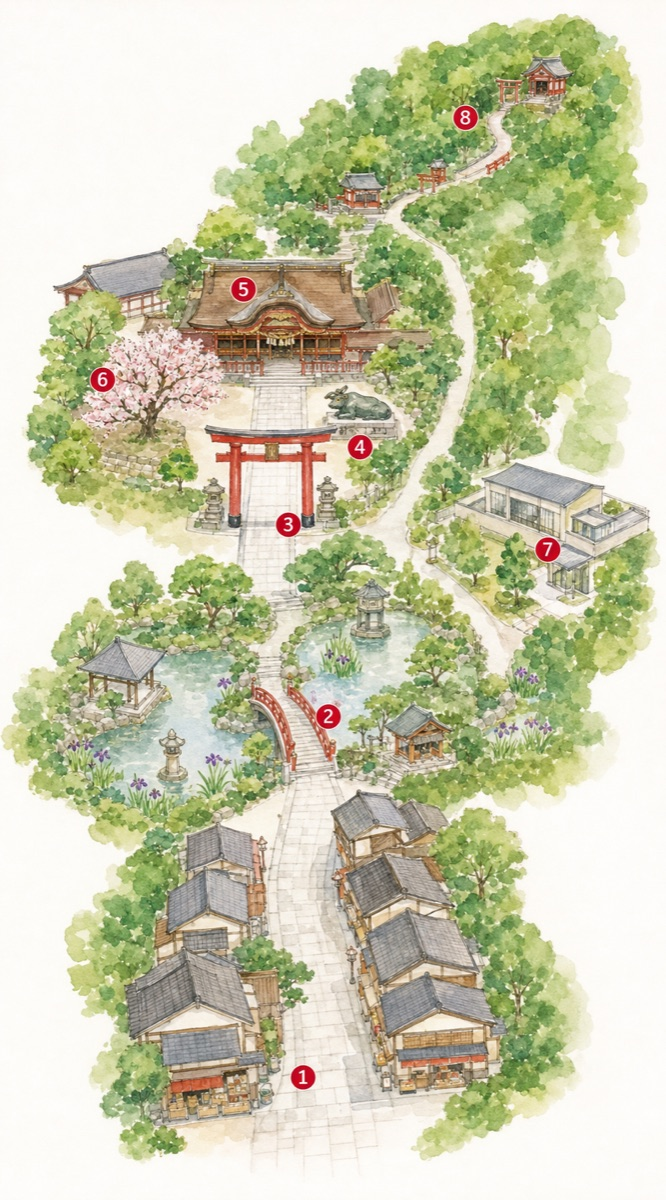
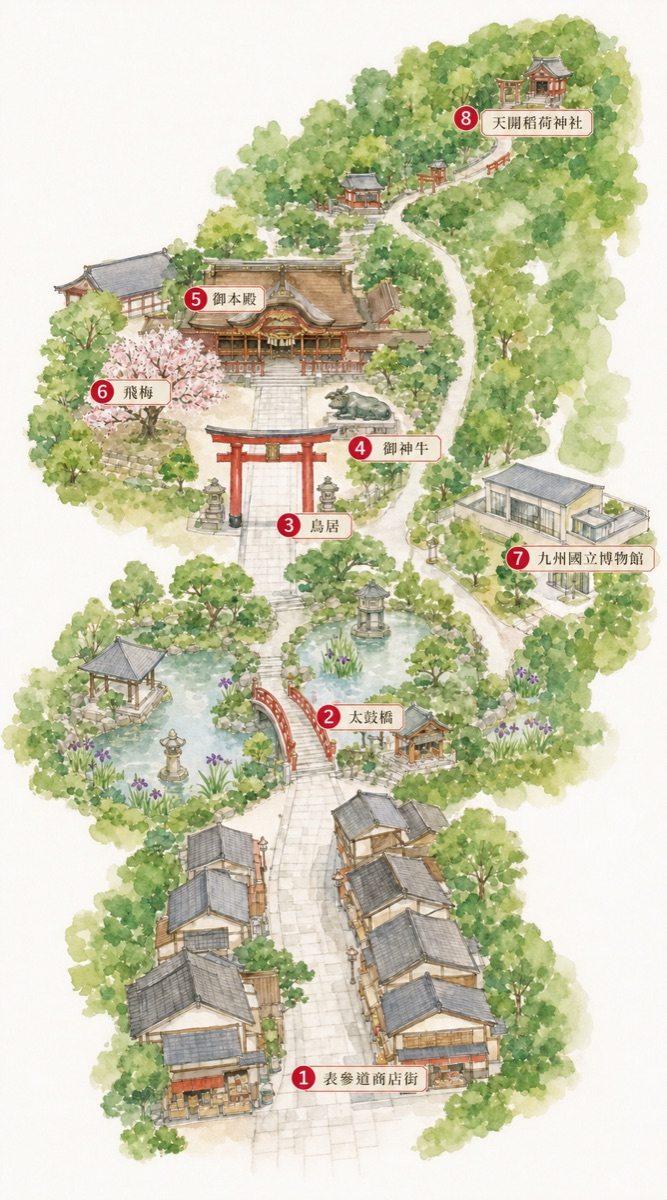
v13.10: 太宰府大區導覽 — 繁中標籤上圖 + 資深導遊遊記式長敘事
- gpt-image-2 成功生出繁體中文地名標籤(表參道/太鼓橋/御神牛等 8 點全對)、直接畫在插畫地圖上
- 介紹改成 5 段導遊/遊記式長敘事(逛吃玩動線季節長輩融入、不用制式欄位標籤)
- 編號圖例降為底部 Maps 索引

diff --git a/fukuoka/areas.html b/fukuoka/areas.html
@@ -280,32 +280,32 @@ a:focus-visible,summary:focus-visible,button:focus-visible{outline:2px solid var
       <img src="img/area_dazaifu.jpg" alt="太宰府區域插畫導覽地圖">
       <figcaption class="mapcredit">插畫地圖 · AI 生成(gpt-image)· 僅供本行程導覽</figcaption>
     </figure>
-    <ul class="legend">
-      
-      <li class="lg"><span class="no">1</span><div><span class="lgn">表参道商店街</span> <a class="mapmini" href="https://www.google.com/maps/search/?api=1&query=%E5%A4%AA%E5%AE%B0%E5%BA%9C%20%E8%A1%A8%E5%8F%82%E9%81%93%E5%95%86%E5%BA%97%E8%A1%97" target="_blank" rel="noopener"><svg class="ic"><use href="#i-pin"/></svg>Maps</a><div class="lgd">梅枝餅・隈研吾星巴克・合格ラーメン一蘭,全在這條石板街上</div></div></li>
-      
-      <li class="lg"><span class="no">2</span><div><span class="lgn">太鼓橋・心字池</span> <a class="mapmini" href="https://www.google.com/maps/search/?api=1&query=%E5%A4%AA%E5%AE%B0%E5%BA%9C%20%E5%A4%AA%E9%BC%93%E6%A9%8B%E3%83%BB%E5%BF%83%E5%AD%97%E6%B1%A0" target="_blank" rel="noopener"><svg class="ic"><use href="#i-pin"/></svg>Maps</a><div class="lgd">過去/現在/未來三座紅橋,池畔菖蒲</div></div></li>
-      
-      <li class="lg"><span class="no">3</span><div><span class="lgn">鳥居</span> <a class="mapmini" href="https://www.google.com/maps/search/?api=1&query=%E5%A4%AA%E5%AE%B0%E5%BA%9C%20%E9%B3%A5%E5%B1%85" target="_blank" rel="noopener"><svg class="ic"><use href="#i-pin"/></svg>Maps</a><div class="lgd">參道入口、進入神域的門</div></div></li>
-      
-      <li class="lg"><span class="no">4</span><div><span class="lgn">御神牛</span> <a class="mapmini" href="https://www.google.com/maps/search/?api=1&query=%E5%A4%AA%E5%AE%B0%E5%BA%9C%20%E5%BE%A1%E7%A5%9E%E7%89%9B" target="_blank" rel="noopener"><svg class="ic"><use href="#i-pin"/></svg>Maps</a><div class="lgd">摸牛頭增智慧、學問成就</div></div></li>
-      
-      <li class="lg"><span class="no">5</span><div><span class="lgn">御本殿</span> <a class="mapmini" href="https://www.google.com/maps/search/?api=1&query=%E5%A4%AA%E5%AE%B0%E5%BA%9C%20%E5%BE%A1%E6%9C%AC%E6%AE%BF" target="_blank" rel="noopener"><svg class="ic"><use href="#i-pin"/></svg>Maps</a><div class="lgd">令和大改修中、2026/9 恢復;過渡動線照常參拜</div></div></li>
-      
-      <li class="lg"><span class="no">6</span><div><span class="lgn">飛梅</span> <a class="mapmini" href="https://www.google.com/maps/search/?api=1&query=%E5%A4%AA%E5%AE%B0%E5%BA%9C%20%E9%A3%9B%E6%A2%85" target="_blank" rel="noopener"><svg class="ic"><use href="#i-pin"/></svg>Maps</a><div class="lgd">樹齡逾千年的神木、太宰府象徵</div></div></li>
-      
-      <li class="lg"><span class="no">7</span><div><span class="lgn">九州國立博物館</span> <a class="mapmini" href="https://www.google.com/maps/search/?api=1&query=%E5%A4%AA%E5%AE%B0%E5%BA%9C%20%E4%B9%9D%E5%B7%9E%E5%9C%8B%E7%AB%8B%E5%8D%9A%E7%89%A9%E9%A4%A8" target="_blank" rel="noopener"><svg class="ic"><use href="#i-pin"/></svg>Maps</a><div class="lgd">彩虹隧道電扶梯直達、全冷氣、雨天避暑備案</div></div></li>
-      
-      <li class="lg"><span class="no">8</span><div><span class="lgn">天開稲荷神社</span> <a class="mapmini" href="https://www.google.com/maps/search/?api=1&query=%E5%A4%AA%E5%AE%B0%E5%BA%9C%20%E5%A4%A9%E9%96%8B%E7%A8%B2%E8%8D%B7%E7%A5%9E%E7%A4%BE" target="_blank" rel="noopener"><svg class="ic"><use href="#i-pin"/></svg>Maps</a><div class="lgd">境內後山小社;鬼滅聖地竈門神社需另搭巴士約 10 分</div></div></li>
-      
-    </ul>
-    <p class="story">一出<b>西鐵太宰府站</b>,表参道就在眼前 — 不長的一條石板街,兩側是現烤梅枝餅的甜香、隈研吾用兩千根杉木蓋的星巴克、和全世界唯一的<b>合格祈願拉麵</b>。順著人流往上,過了心字池上的紅色<b>太鼓橋</b>、穿過鳥居,就是學問之神坐鎮的<b>天満宮</b>。御本殿正逢 124 年一次的『令和大改修』、要 2026 年 9 月才恢復,但飛梅、御神牛、庭園都照常。想再走遠一點,後山的天開稲荷神社、右側冷氣全開的九州國立博物館,都是盛夏避暑的好去處。</p>
+    <p class="story">太宰府是福岡近郊最值得專程走一趟的千年古都。從博多搭計程車門到門約 25 分鐘,或搭『旅人』直達巴士約 40 分,一下車就是表參道的入口。這裡供奉學問之神菅原道真,每年九百萬人來祈求金榜題名;但對我們家來說,它更像一條把美食、建築、神社、山景濃縮成一個上午的散步路線——剛剛好,不累。</p><p class="story">先別急著衝進神社。表參道這條不長的石板街,藏著三樣順路必收:一是<b>梅枝餅</b>,烤得微焦的麻糬皮包紅豆餡、要吃剛出爐熱的(かさの家最有名、一顆 ¥130);二是隈研吾設計的<b>星巴克</b>,兩千多根杉木無釘交錯成波浪,是建築迷朝聖點、也是夏天喝杯抹茶星冰樂歇腳的好地方;三是全球獨一無二的一蘭<b>『合格拉麵』</b>,五角合格碗、59 公分長麵、掛了不掉的『合格衣架』,滿滿應試哏。我們中午在中洲有鰻魚正餐,這裡看看拍拍、買個合格周邊送考生朋友最剛好,真想嚐就點一碗全家分。</p><p class="story">吃飽逛夠,順著人流走向神社。先過心字池上的三座紅色<b>太鼓橋</b>——過去、現在、未來,走過象徵洗去三世罪業;穿過<b>鳥居</b>進入神域,右手邊臥著一尊<b>御神牛</b>,摸摸牠的頭據說增長智慧(考生都排隊摸)。正殿<b>御本殿</b>正逢一百二十四年一次的『令和大改修』、要到 2026 年 9 月才恢復,我們七月去時主殿仍在收尾、景觀會受影響,但一旁樹齡逾千年的<b>飛梅</b>、庭園、參道都照常;買個學業守(¥800)、御朱印(¥500),參拜的儀式感一點不減。</p><p class="story">時間和體力還夠,神社後方有兩個地方值得延伸:一是境內後山的<b>天開稲荷神社</b>,沿紅色鳥居拾級而上、遊客稀少、氣氛清幽;二是往東搭巴士約十分鐘的<b>竈門神社</b>,和《鬼滅之刃》主角『竈門炭治郎』同名,是動漫迷聖地、也是求良緣的名社,秋天紅葉尤其美。若天氣太熱或下雨,就躲進天満宮後方、彩虹隧道電扶梯直達的<b>九州國立博物館</b>——全程冷氣、電梯,是長輩最舒服的避難所。</p><p class="story">盛夏的太宰府,建議早上七到九點先進神社參拜(涼、人少),回頭再慢慢逛參道吃東西——店家多半九點後才開,順序反了會空等;中午前收工回市區吹冷氣、吃鰻魚,是最舒服的節奏。參道整體平緩,但樓門前有階梯、太鼓橋拱起較陡,兩位媽媽記得扶好慢走;竈門神社的山路留給腳力好的人,長輩可在山下星巴克或茶房歇腳等。公廁在神社右側與參道中段都有。</p>
     
-    <div class="rsec" style="margin-top:22px"><h3><svg class="ic"><use href="#i-leaf"/></svg>特別值得一提</h3>
-      <div class="hl"><div class="hli"><span class="hln">隈研吾星巴克</span><div class="hld">兩千根杉木『地獄組』無釘工法,太宰府必拍建築,抹茶星冰樂消暑。</div></div><div class="hli"><span class="hln">合格ラーメン(一蘭)</span><div class="hld">世界唯一、五角合格碗/合格箸/59cm 麵。因 13:00 菊川鰻魚是正餐,建議看拍＋買合格周邊、想吃點一份分。</div></div><div class="hli"><span class="hln">竈門神社(延伸)</span><div class="hld">《鬼滅之刃》聖地、緣結び名社,巴士 10 分上山。夏天悶熱、體力好再去。</div></div></div>
+    <div class="rsec" style="margin-top:26px"><h3><svg class="ic"><use href="#i-pin"/></svg>圖上景點 · 點看地圖</h3>
+      <ul class="legend">
+        
+        <li class="lg"><span class="no">1</span><div><span class="lgn">表参道商店街</span> <a class="mapmini" href="https://www.google.com/maps/search/?api=1&query=%E5%A4%AA%E5%AE%B0%E5%BA%9C%20%E8%A1%A8%E5%8F%82%E9%81%93%E5%95%86%E5%BA%97%E8%A1%97" target="_blank" rel="noopener"><svg class="ic"><use href="#i-pin"/></svg>Maps</a><div class="lgd">梅枝餅・隈研吾星巴克・合格ラーメン一蘭,全在這條石板街上</div></div></li>
+        
+        <li class="lg"><span class="no">2</span><div><span class="lgn">太鼓橋・心字池</span> <a class="mapmini" href="https://www.google.com/maps/search/?api=1&query=%E5%A4%AA%E5%AE%B0%E5%BA%9C%20%E5%A4%AA%E9%BC%93%E6%A9%8B%E3%83%BB%E5%BF%83%E5%AD%97%E6%B1%A0" target="_blank" rel="noopener"><svg class="ic"><use href="#i-pin"/></svg>Maps</a><div class="lgd">過去/現在/未來三座紅橋,池畔菖蒲</div></div></li>
+        
+        <li class="lg"><span class="no">3</span><div><span class="lgn">鳥居</span> <a class="mapmini" href="https://www.google.com/maps/search/?api=1&query=%E5%A4%AA%E5%AE%B0%E5%BA%9C%20%E9%B3%A5%E5%B1%85" target="_blank" rel="noopener"><svg class="ic"><use href="#i-pin"/></svg>Maps</a><div class="lgd">參道入口、進入神域的門</div></div></li>
+        
+        <li class="lg"><span class="no">4</span><div><span class="lgn">御神牛</span> <a class="mapmini" href="https://www.google.com/maps/search/?api=1&query=%E5%A4%AA%E5%AE%B0%E5%BA%9C%20%E5%BE%A1%E7%A5%9E%E7%89%9B" target="_blank" rel="noopener"><svg class="ic"><use href="#i-pin"/></svg>Maps</a><div class="lgd">摸牛頭增智慧、學問成就</div></div></li>
+        
+        <li class="lg"><span class="no">5</span><div><span class="lgn">御本殿</span> <a class="mapmini" href="https://www.google.com/maps/search/?api=1&query=%E5%A4%AA%E5%AE%B0%E5%BA%9C%20%E5%BE%A1%E6%9C%AC%E6%AE%BF" target="_blank" rel="noopener"><svg class="ic"><use href="#i-pin"/></svg>Maps</a><div class="lgd">令和大改修中、2026/9 恢復;過渡動線照常參拜</div></div></li>
+        
+        <li class="lg"><span class="no">6</span><div><span class="lgn">飛梅</span> <a class="mapmini" href="https://www.google.com/maps/search/?api=1&query=%E5%A4%AA%E5%AE%B0%E5%BA%9C%20%E9%A3%9B%E6%A2%85" target="_blank" rel="noopener"><svg class="ic"><use href="#i-pin"/></svg>Maps</a><div class="lgd">樹齡逾千年的神木、太宰府象徵</div></div></li>
+        
+        <li class="lg"><span class="no">7</span><div><span class="lgn">九州國立博物館</span> <a class="mapmini" href="https://www.google.com/maps/search/?api=1&query=%E5%A4%AA%E5%AE%B0%E5%BA%9C%20%E4%B9%9D%E5%B7%9E%E5%9C%8B%E7%AB%8B%E5%8D%9A%E7%89%A9%E9%A4%A8" target="_blank" rel="noopener"><svg class="ic"><use href="#i-pin"/></svg>Maps</a><div class="lgd">彩虹隧道電扶梯直達、全冷氣、雨天避暑備案</div></div></li>
+        
+        <li class="lg"><span class="no">8</span><div><span class="lgn">天開稲荷神社</span> <a class="mapmini" href="https://www.google.com/maps/search/?api=1&query=%E5%A4%AA%E5%AE%B0%E5%BA%9C%20%E5%A4%A9%E9%96%8B%E7%A8%B2%E8%8D%B7%E7%A5%9E%E7%A4%BE" target="_blank" rel="noopener"><svg class="ic"><use href="#i-pin"/></svg>Maps</a><div class="lgd">境內後山小社;鬼滅聖地竈門神社需另搭巴士約 10 分</div></div></li>
+        
+      </ul>
     </div>
     
-    <div class="rsec" style="margin-top:18px"><h3><svg class="ic"><use href="#i-umb"/></svg>家庭提醒</h3><div class="rcard"><p>參道平緩好走,但樓門有階梯、太鼓橋較陡,扶好慢走。<b>盛夏正午最熱、12 點前收工回市區吹冷氣</b>,竈門神社山路留給體力好的人。公廁在神社右側與參道中段。下午長輩想省力就直接回博多,採買午餐都在市區、不會錯過重點。</p></div></div>
+    
+    
 
     
 
